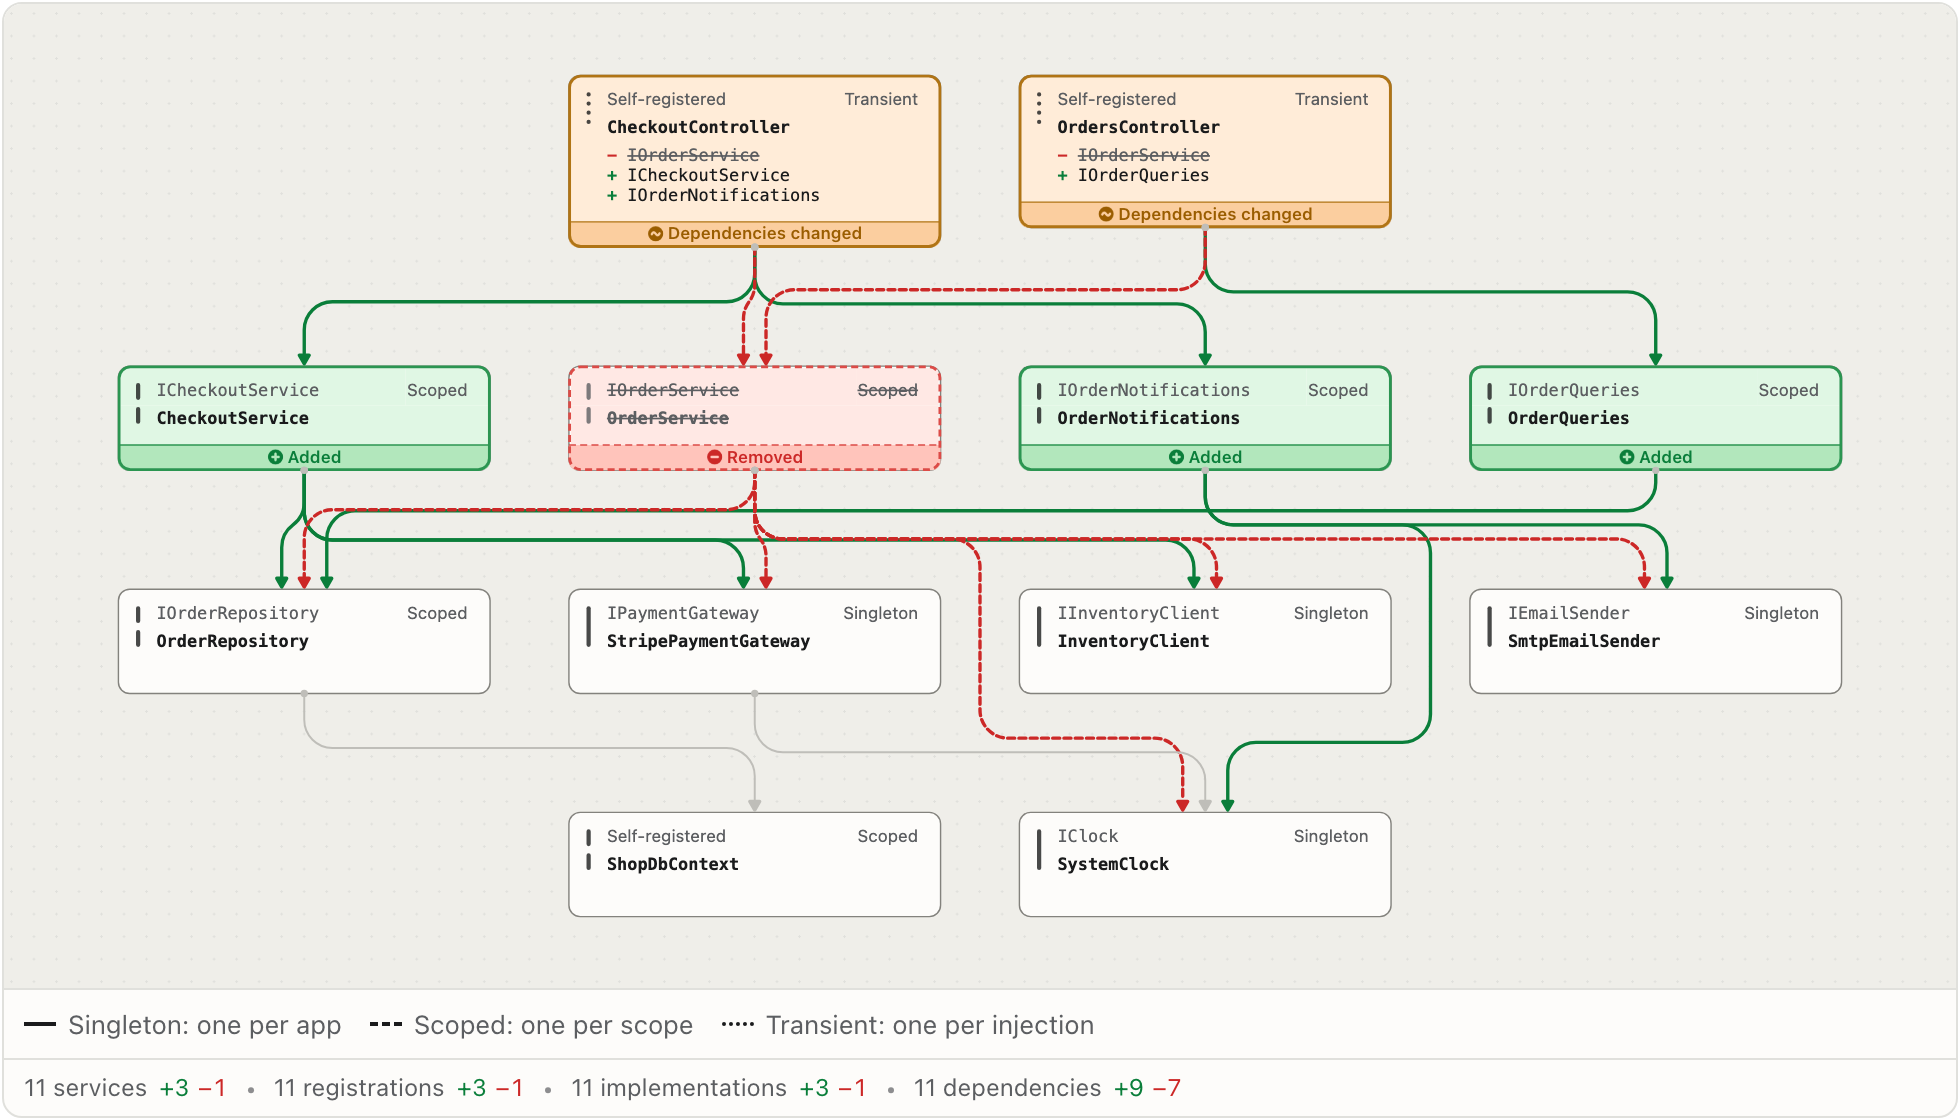
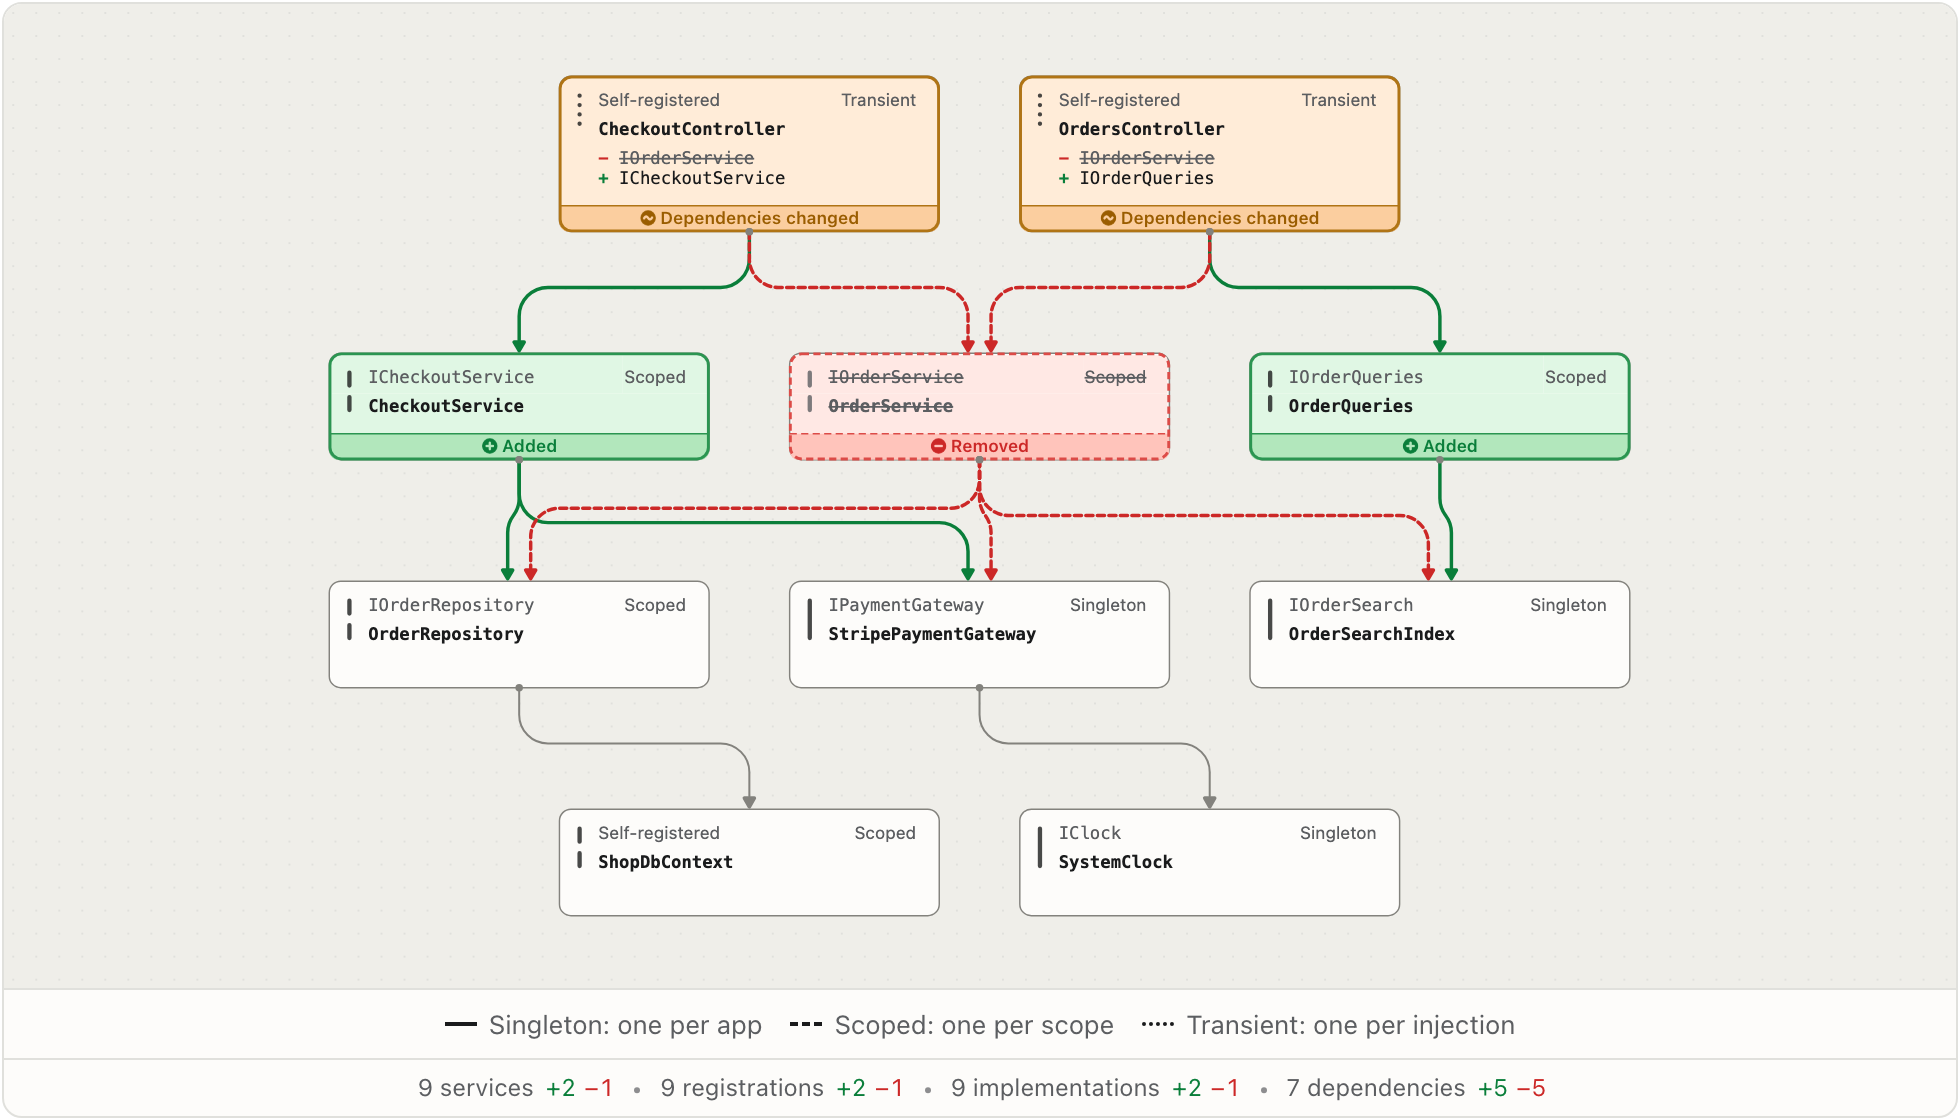
README hero: split OrderService into two services with their own dependencies
The hero's dependency graph read 2 / 4 / 4 / 2 with every new service
sharing the repository, so arrows fanned into shared targets and crossed.
OrderService now splits into CheckoutService (the repository and payments)
and OrderQueries (order search), and the notifications service and email
sender are gone, so the rows read 2 / 3 / 3 / 2, staggered, and the after
state has no crossings.

diff --git a/docs/images/sources/order-service-split/after/Shop.cs b/docs/images/sources/order-service-split/after/Shop.cs
@@ -13,12 +13,10 @@ public static class Composition
         services.AddTransient<CheckoutController>();
         services.AddScoped<ICheckoutService, CheckoutService>();
         services.AddScoped<IOrderQueries, OrderQueries>();
-        services.AddScoped<IOrderNotifications, OrderNotifications>();
         services.AddScoped<IOrderRepository, OrderRepository>();
         services.AddScoped<ShopDbContext>();
         services.AddSingleton<IPaymentGateway, StripePaymentGateway>();
-        services.AddSingleton<IInventoryClient, InventoryClient>();
-        services.AddSingleton<IEmailSender, SmtpEmailSender>();
+        services.AddSingleton<IOrderSearch, OrderSearchIndex>();
         services.AddSingleton<IClock, SystemClock>();
         return services;
     }
@@ -26,22 +24,15 @@ public static class Composition
 
 public sealed class OrdersController(IOrderQueries orders);
 
-public sealed class CheckoutController(ICheckoutService checkout, IOrderNotifications notifications);
+public sealed class CheckoutController(ICheckoutService checkout);
 
 public interface ICheckoutService;
 
-public sealed class CheckoutService(
-    IOrderRepository orders,
-    IPaymentGateway payments,
-    IInventoryClient inventory) : ICheckoutService;
+public sealed class CheckoutService(IOrderRepository orders, IPaymentGateway payments) : ICheckoutService;
 
 public interface IOrderQueries;
 
-public sealed class OrderQueries(IOrderRepository orders) : IOrderQueries;
-
-public interface IOrderNotifications;
-
-public sealed class OrderNotifications(IEmailSender email, IClock clock) : IOrderNotifications;
+public sealed class OrderQueries(IOrderSearch search) : IOrderQueries;
 
 public interface IOrderRepository;
 
@@ -53,13 +44,9 @@ public interface IPaymentGateway;
 
 public sealed class StripePaymentGateway(IClock clock) : IPaymentGateway;
 
-public interface IInventoryClient;
+public interface IOrderSearch;
 
-public sealed class InventoryClient : IInventoryClient;
-
-public interface IEmailSender;
-
-public sealed class SmtpEmailSender : IEmailSender;
+public sealed class OrderSearchIndex : IOrderSearch;
 
 public interface IClock;
 

diff --git a/docs/images/sources/order-service-split/before/Shop.cs b/docs/images/sources/order-service-split/before/Shop.cs
@@ -15,8 +15,7 @@ public static class Composition
         services.AddScoped<IOrderRepository, OrderRepository>();
         services.AddScoped<ShopDbContext>();
         services.AddSingleton<IPaymentGateway, StripePaymentGateway>();
-        services.AddSingleton<IInventoryClient, InventoryClient>();
-        services.AddSingleton<IEmailSender, SmtpEmailSender>();
+        services.AddSingleton<IOrderSearch, OrderSearchIndex>();
         services.AddSingleton<IClock, SystemClock>();
         return services;
     }
@@ -26,15 +25,13 @@ public sealed class OrdersController(IOrderService orders);
 
 public sealed class CheckoutController(IOrderService orders);
 
-/// <summary>Everything about an order, in one service: checkout, lookups and notifications.</summary>
+/// <summary>Everything about an order, in one service: checkout and lookups.</summary>
 public interface IOrderService;
 
 public sealed class OrderService(
     IOrderRepository orders,
     IPaymentGateway payments,
-    IInventoryClient inventory,
-    IEmailSender email,
-    IClock clock) : IOrderService;
+    IOrderSearch search) : IOrderService;
 
 public interface IOrderRepository;
 
@@ -46,13 +43,9 @@ public interface IPaymentGateway;
 
 public sealed class StripePaymentGateway(IClock clock) : IPaymentGateway;
 
-public interface IInventoryClient;
+public interface IOrderSearch;
 
-public sealed class InventoryClient : IInventoryClient;
-
-public interface IEmailSender;
-
-public sealed class SmtpEmailSender : IEmailSender;
+public sealed class OrderSearchIndex : IOrderSearch;
 
 public interface IClock;
 

diff --git a/docs/gallery.md b/docs/gallery.md
@@ -15,16 +15,16 @@ lifetime and what it injects.
 
 <picture>
   <source media="(prefers-color-scheme: dark)" srcset="images/readme/di-split-animated-dark.png">
-  <img width="880" alt="An animated dependency graph: OrderService, which both controllers inject, turns red and leaves; CheckoutService, OrderQueries and OrderNotifications arrive, each depending on only what it needs" src="images/readme/di-split-animated-light.png">
+  <img width="880" alt="An animated dependency graph: OrderService, which both controllers inject, turns red and leaves; CheckoutService and OrderQueries arrive, each depending on only what it needs" src="images/readme/di-split-animated-light.png">
 </picture>
 
-`OrderService` split into three focused services, animated
+`OrderService` split into two focused services, animated
 ([`docs/images/sources/order-service-split`](images/sources/order-service-split/README.md),
 `dotnet-di`).
 
 <picture>
   <source media="(prefers-color-scheme: dark)" srcset="images/readme/di-split-dark.png">
-  <img width="880" alt="The same change as one diff: OrderService removed in red, three new services added in green, and each controller listing the dependency it lost and the ones it gained" src="images/readme/di-split-light.png">
+  <img width="880" alt="The same change as one diff: OrderService removed in red, two new services added in green, and each controller listing the dependency it lost and the one it gained" src="images/readme/di-split-light.png">
 </picture>
 
 The same change as one diff: each controller lists what it now injects instead.

diff --git a/docs/images/sources/order-service-split/README.md b/docs/images/sources/order-service-split/README.md
@@ -8,10 +8,11 @@ The README's dependency injection images (the hero) and the
 [gallery](../../../../docs/gallery.md#dependency-injection)'s.
 
 A shop application's service registrations at two revisions: `before`, where one
-`OrderService` does checkout, lookups and notifications, and `after`, where it
-is split into `CheckoutService`, `OrderQueries` and `OrderNotifications`.
-`node tools/scripts/readme-images.mjs --only di-split` commits the two folders
-as two revisions in a scratch repository and draws the README's images from them
-with the [`dotnet-di`](../../../../docs/builtins/extractors/dotnet-di.md)
-extractor, which builds the project (the .NET 8 SDK) and reads
-`Composition.Services()`, the application's own registrations.
+`OrderService` does checkout and lookups, and `after`, where it is split into
+`CheckoutService`, which charges and saves orders, and `OrderQueries`, which
+searches them. `node tools/scripts/readme-images.mjs --only di-split` commits
+the two folders as two revisions in a scratch repository and draws the README's
+images from them with the
+[`dotnet-di`](../../../../docs/builtins/extractors/dotnet-di.md) extractor,
+which builds the project (the .NET 8 SDK) and reads `Composition.Services()`,
+the application's own registrations.

diff --git a/README.md b/README.md
@@ -28,7 +28,7 @@ Feel free to open a Discussion or chat with us on
 
 <picture>
   <source media="(prefers-color-scheme: dark)" srcset="docs/images/readme/di-split-animated-dark.png">
-  <img alt="An animated dependency graph of a simple shop application: OrderService, which both controllers inject and which depends on the repository, payments, inventory, email and the clock, turns red and leaves; CheckoutService, OrderQueries and OrderNotifications arrive" src="docs/images/readme/di-split-animated-light.png">
+  <img alt="An animated dependency graph of a simple shop application: OrderService, which both controllers inject and which depends on the repository, payments and order search, turns red and leaves; CheckoutService, which takes the repository and payments, and OrderQueries, which takes only search, arrive" src="docs/images/readme/di-split-animated-light.png">
 </picture>
 
 ## The Mechanics
